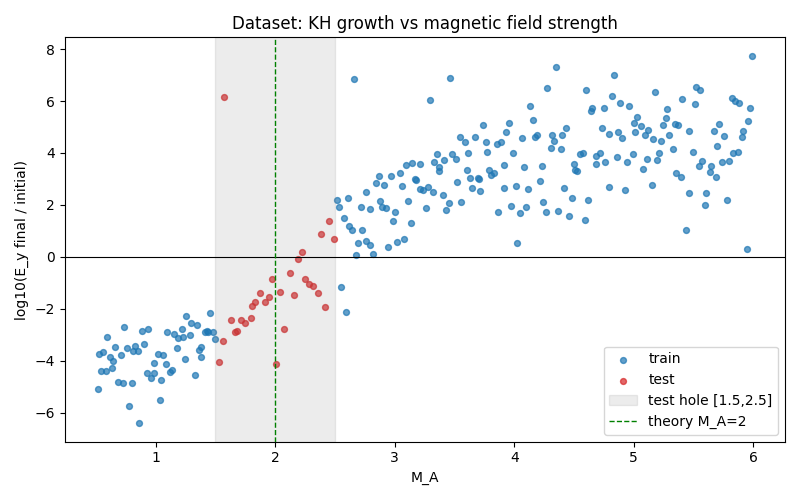
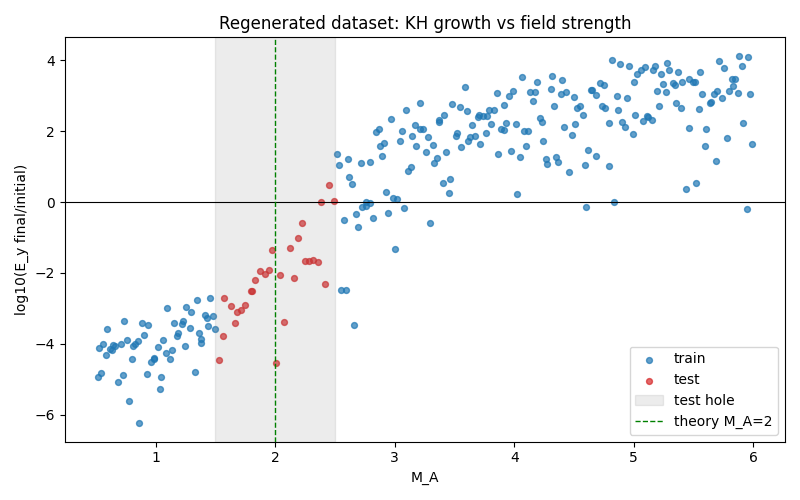
Add FNO training script
- scripts/train.py: splits training runs into train/val (by run, so val is unseen),
  computes and saves the normalizer, builds the FNO, trains with the Trainer, and
  saves the best checkpoint + loss curve. CPU-friendly defaults (train at 64^2,
  subsample time pairs)
- dataset: include_runs filter to carve a validation set from unseen training runs
Validated end-to-end: relative-L2 one-step error ~0.8% after 3 epochs on a subset.

diff --git a/scripts/train.py b/scripts/train.py
@@ -1,21 +1,96 @@
-"""Train the FNO on a generated dataset.
+"""Train the FNO on the generated dataset.
+
+Splits the training runs into train/validation (by run, so validation runs are unseen),
+normalizes fields and parameters, and fits the operator with a relative-L2 loss. Saves
+the best checkpoint, the normalizer, and a loss curve.
+
+On a CPU it is much cheaper to train at a reduced resolution (the FNO is
+resolution-independent) and to subsample time pairs. Defaults are tuned for that.
 
 Usage:
     python scripts/train.py --config configs/kh_baseline.yaml
-
-Not implemented yet — Phase 2.
+    python scripts/train.py --config configs/kh_baseline.yaml --epochs 60 --train-res 64
 """
 
+from __future__ import annotations
+
 import argparse
+import json
+import random
+from pathlib import Path
+
+import matplotlib
+
+matplotlib.use("Agg")
+import matplotlib.pyplot as plt
+import torch
+from torch.utils.data import DataLoader
+
+from mhd_fno.data.dataset import MHDTrajectoryDataset
+from mhd_fno.data.normalization import compute_stats
+from mhd_fno.models.fno import FNO2d
+from mhd_fno.training.trainer import Trainer
 
 
 def main() -> None:
-    parser = argparse.ArgumentParser(description=__doc__)
-    parser.add_argument("--config", required=True, help="Path to a YAML config file.")
-    args = parser.parse_args()
-    raise NotImplementedError(
-        f"Training not implemented yet (config: {args.config}). See ROADMAP.md, Phase 2."
-    )
+    p = argparse.ArgumentParser(description=__doc__)
+    p.add_argument("--config", required=True)
+    p.add_argument("--data", default=None, help="Dataset dir (default: from config).")
+    p.add_argument("--out", default="checkpoints", help="Output dir for checkpoint/curve.")
+    p.add_argument("--train-res", type=int, default=64, help="Downsample training resolution.")
+    p.add_argument("--modes", type=int, default=16)
+    p.add_argument("--width", type=int, default=32)
+    p.add_argument("--n-layers", type=int, default=4)
+    p.add_argument("--pair-stride", type=int, default=4, help="Keep every k-th time pair.")
+    p.add_argument("--batch-size", type=int, default=32)
+    p.add_argument("--epochs", type=int, default=40)
+    p.add_argument("--lr", type=float, default=1e-3)
+    p.add_argument("--val-frac", type=float, default=0.1)
+    p.add_argument("--seed", type=int, default=0)
+    args = p.parse_args()
+
+    with open(args.config) as f:
+        cfg = json.load(f) if args.config.endswith(".json") else __import__("yaml").safe_load(f)
+    data_dir = args.data or cfg["dataset"]["out_dir"]
+    out_dir = Path(args.out)
+    out_dir.mkdir(parents=True, exist_ok=True)
+
+    device = "cuda" if torch.cuda.is_available() else "cpu"
+    print(f"device: {device}")
+
+    # --- split training runs into train / val (by run) ---
+    manifest = json.loads((Path(data_dir) / "manifest.json").read_text())
+    train_runs = [e["run_id"] for e in manifest if e["split"] == "train"]
+    random.Random(args.seed).shuffle(train_runs)
+    n_val = max(1, int(args.val_frac * len(train_runs)))
+    val_ids, tr_ids = set(train_runs[:n_val]), set(train_runs[n_val:])
+    print(f"train runs: {len(tr_ids)}  val runs: {len(val_ids)}")
+
+    # --- data ---
+    norm = compute_stats(data_dir, split="train")
+    norm.save(out_dir / "normalizer.json")
+    train_ds = MHDTrajectoryDataset(data_dir, split="train", pair_stride=args.pair_stride, include_runs=tr_ids)
+    val_ds = MHDTrajectoryDataset(data_dir, split="train", pair_stride=args.pair_stride, include_runs=val_ids)
+    print(f"train pairs: {len(train_ds)}  val pairs: {len(val_ds)}")
+    train_loader = DataLoader(train_ds, batch_size=args.batch_size, shuffle=True)
+    val_loader = DataLoader(val_ds, batch_size=args.batch_size)
+
+    # --- model & training ---
+    model = FNO2d(modes=args.modes, width=args.width, n_layers=args.n_layers)
+    n_par = sum(t.numel() for t in model.parameters())
+    print(f"model: {n_par/1e6:.2f}M params, training at {args.train_res}^2")
+    trainer = Trainer(model, norm, device=device, lr=args.lr, train_resolution=args.train_res)
+    trainer.fit(train_loader, val_loader, epochs=args.epochs, ckpt_path=out_dir / "fno_best.pt")
+
+    # --- loss curve ---
+    fig, ax = plt.subplots(figsize=(7, 4.5))
+    ax.plot(trainer.history["train"], label="train")
+    ax.plot(trainer.history["val"], label="val")
+    ax.set(xlabel="epoch", ylabel="relative L2 loss", title="FNO training")
+    ax.set_yscale("log"); ax.legend()
+    fig.tight_layout()
+    fig.savefig(out_dir / "loss_curve.png", dpi=110)
+    print(f"best val loss: {trainer.best_val:.4f}  ->  {out_dir/'fno_best.pt'}")
 
 
 if __name__ == "__main__":

diff --git a/src/mhd_fno/data/dataset.py b/src/mhd_fno/data/dataset.py
@@ -24,7 +24,8 @@ from torch.utils.data import Dataset
 
 
 class MHDTrajectoryDataset(Dataset):
-    def __init__(self, root: str | Path, split: str | None = None, pair_stride: int = 1):
+    def __init__(self, root: str | Path, split: str | None = None, pair_stride: int = 1,
+                 include_runs: set[str] | None = None):
         """
         Parameters
         ----------
@@ -32,11 +33,17 @@ class MHDTrajectoryDataset(Dataset):
         split : "train", "test", or None (all).
         pair_stride : keep every k-th (run, time) pair. >1 shrinks the dataset for
             faster CPU training while still covering all runs and time ranges.
+        include_runs : if given, keep only runs whose run_id is in this set (used to
+            carve a validation set out of unseen training runs).
         """
         self.root = Path(root)
         with open(self.root / "manifest.json") as f:
             manifest = json.load(f)
-        self.entries = [e for e in manifest if split is None or e["split"] == split]
+        self.entries = [
+            e for e in manifest
+            if (split is None or e["split"] == split)
+            and (include_runs is None or e["run_id"] in include_runs)
+        ]
 
         # Build a flat index of (entry_idx, t) pairs and read light metadata up front.
         self._handles: dict[str, h5py.File] = {}
